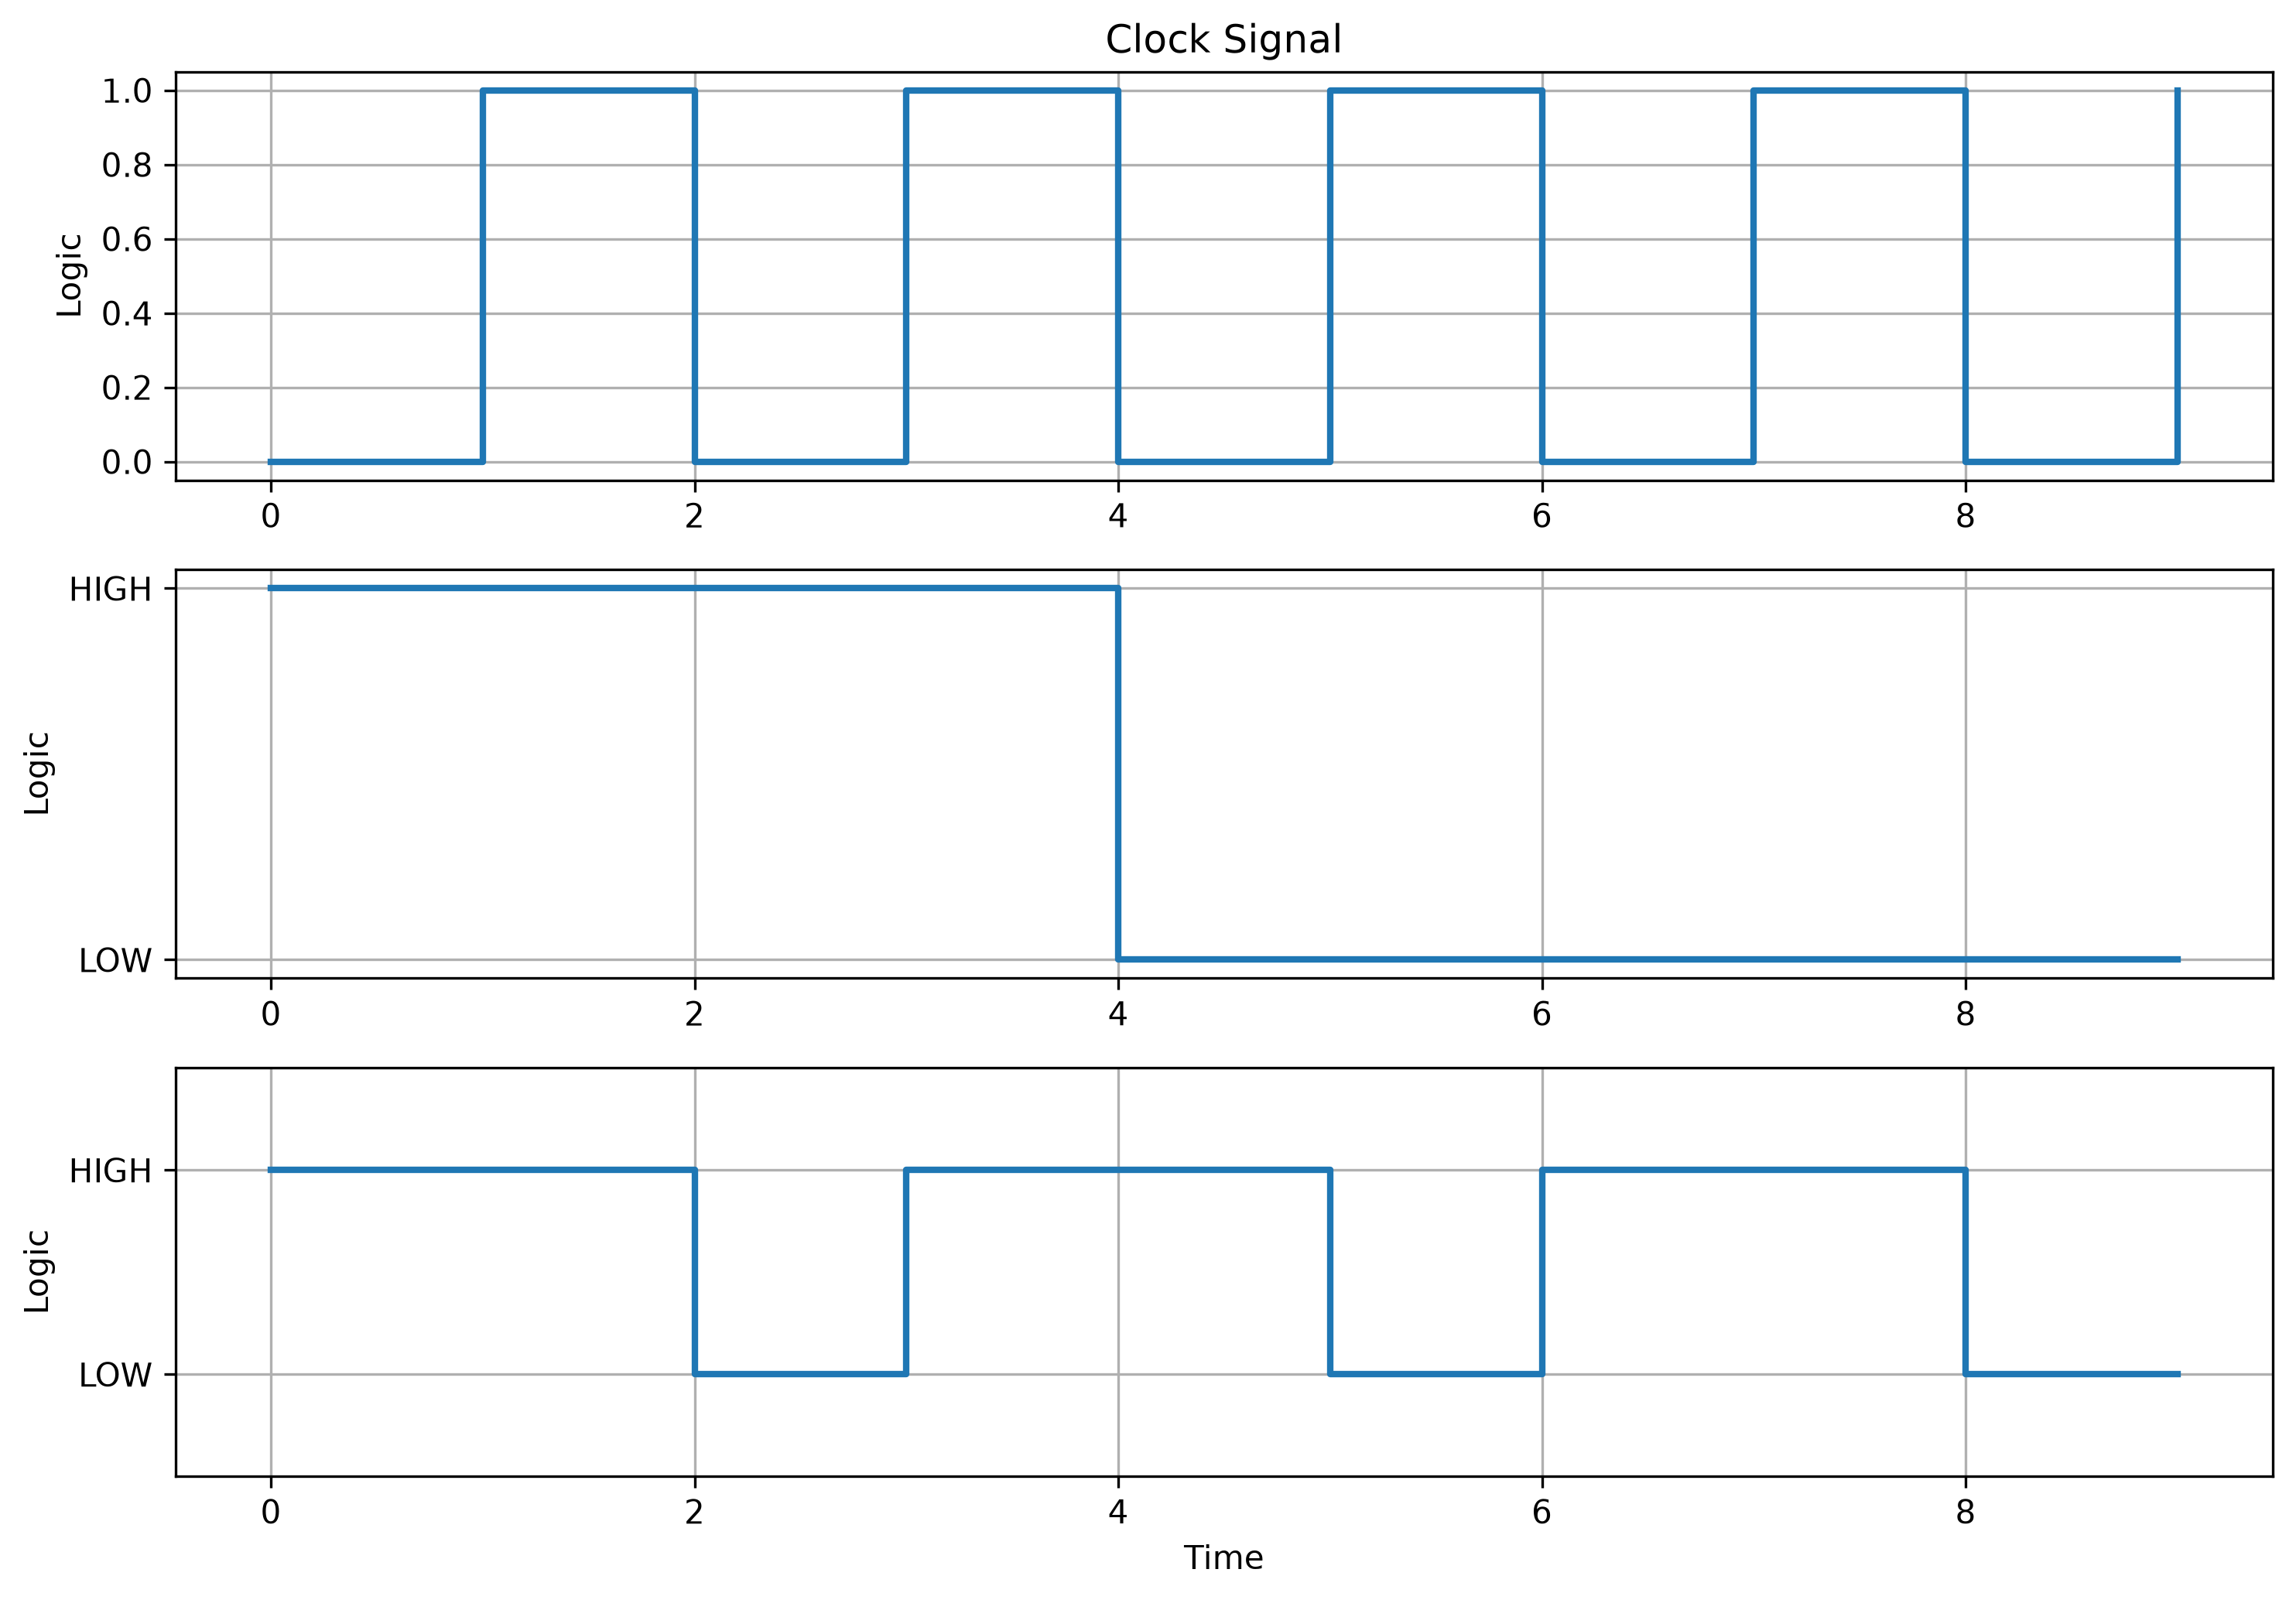
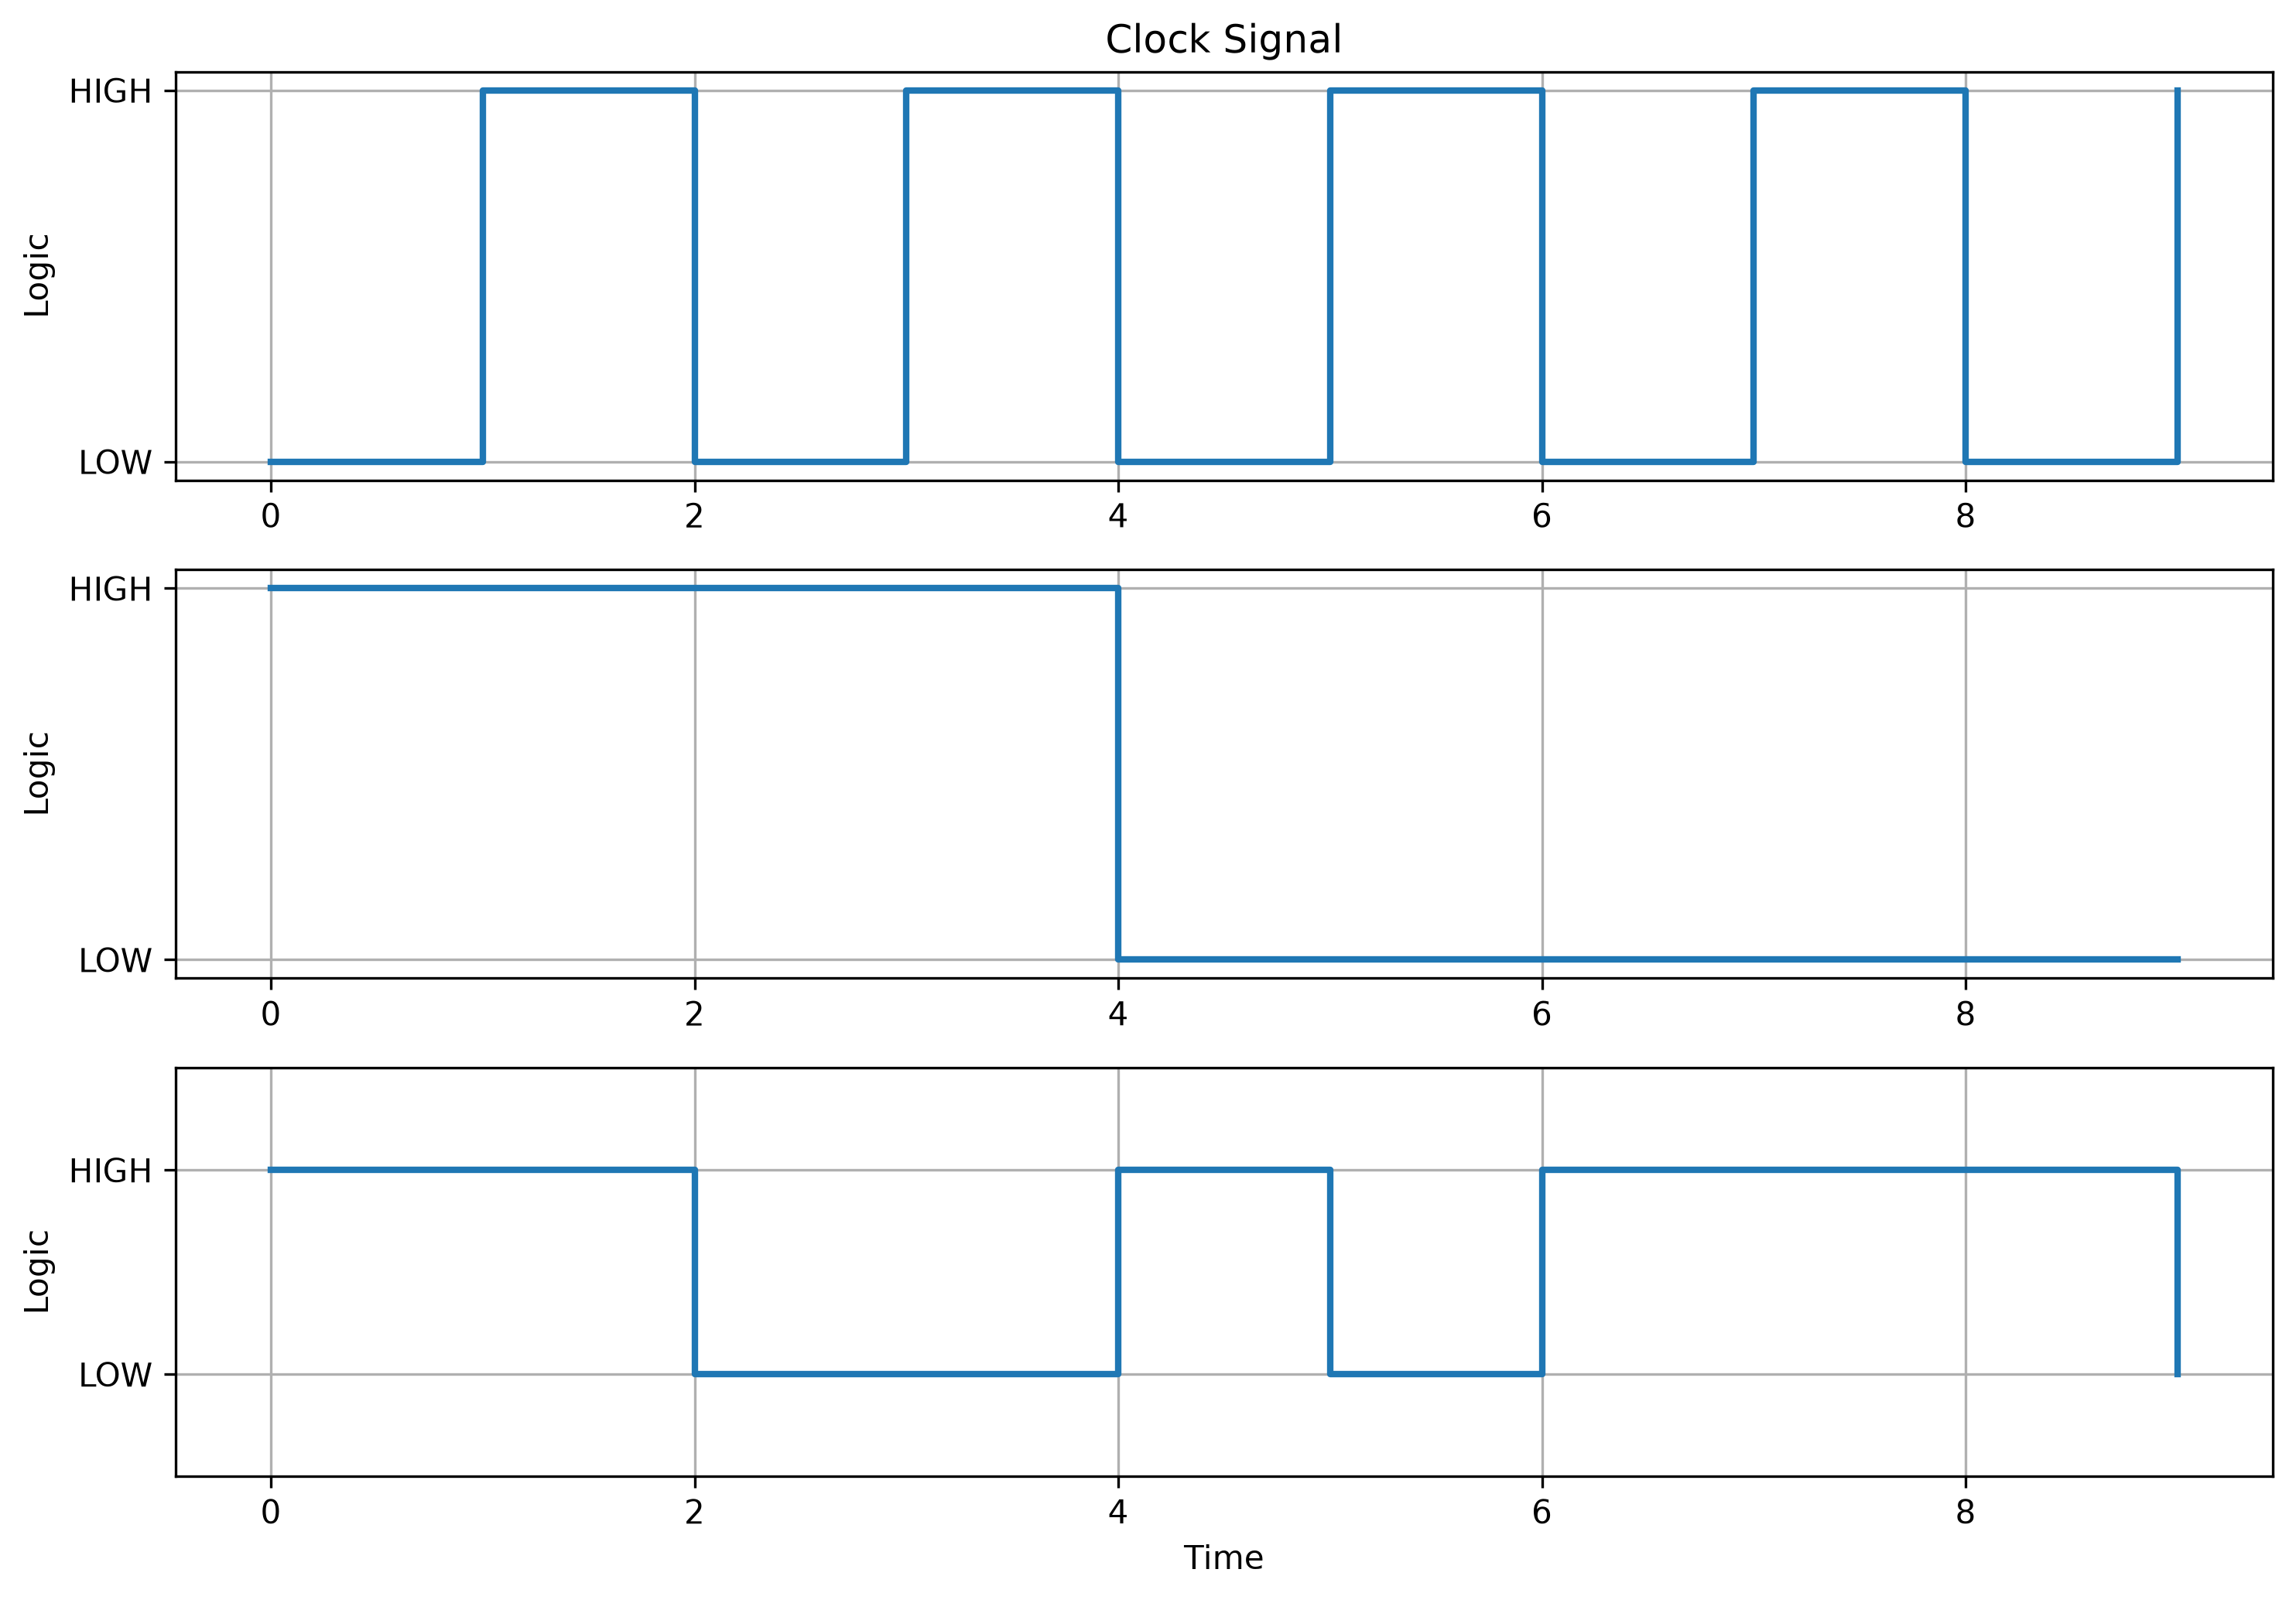
Update README documentation

diff --git a/README.md b/README.md
@@ -1,16 +1,17 @@
 # DIGITAL SIGNAL ANALYZER
-A VLSI-oriented "Digital Signal Analyzer" project built using Python, Numpy, Pandas and Matplotlib. 
+A VLSI-oriented "Digital Signal Analyzer" project built using Python, NumPy, Pandas and Matplotlib. 
+
 The Digital Signal Analyzer generates digital signals, analyzes their properties and then plots the clock, reset, and data waveforms in the form of graphs.
 
 ## Features
 - Generates clock signal
 - Generates reset signal
-- Generate data signal
-- Analyze LOW and HIGH counts
+- Generates data signal
+- Analyze HIGH and LOW counts
 - Calculate duty cycle
 - Detect rising and falling edges 
 - Plots digital waveforms
-- Export siignal data to CSV
+- Export signal data to CSV
 - Export signal statistics to CSV
 - Save waveform as PNG image
 
@@ -21,23 +22,26 @@ The Digital Signal Analyzer generates digital signals, analyzes their properties
 - Matplotlib
 
 ## Project Structure
-Digital SigNAL Analyzer/
-|
-|--- main.py
-|---signal_generator.py
-|---analyzer.py
-|---plotter.py
-|
-|---data/
-|    |---signal.csv
-|    |---statistics.csv
-|
-|---images/
-|    |---waveform.png
-|
-|---README.md
-|---requirements.txt
-|---.gitignore
+
+```text
+Digital_Signal_Analyzer/
+│
+├── main.py
+├── signal_generator.py
+├── analyzer.py
+├── plotter.py
+│
+├── data/
+│   ├── signal.csv
+│   └── statistics.csv
+│
+├── images/
+│   └── waveform.png
+│
+├── README.md
+├── requirements.txt
+└── .gitignore
+```
 
 ## How it works
 
@@ -64,6 +68,7 @@ Digital SigNAL Analyzer/
 
 ### Signal Statistics
 
+```text
 +--------+------+-----+------------+--------------+---------------+
 | Signal | HIGH | LOW | Duty Cycle | Rising Edges | Falling Edges |
 +--------+------+-----+------------+--------------+---------------+
@@ -71,12 +76,77 @@ Digital SigNAL Analyzer/
 | Reset  |  4   |  6  |    40%     |      0       |       1       |
 |  Data  |  6   |  4  |    60%     |      3       |       2       |
 +--------+------+-----+------------+--------------+---------------+
+```
 
 ## Project Screenshots 
 
 ### Waveform 
 
-~~~~~~
+<img src="images/waveform.png" width="700">
 
-images/waveform.png
+### Statistics CSV
 
+<img src="images/statistics_csv.jpg" width="700">
+
+### Signal CSV
+
+<img src="images/signal_csv.jpg" width="500">
+
+### Terminal Output
+
+<img src="images/terminal_output.jpg" width="700">
+
+## Installation
+
+1. Clone or download the project.
+
+2. Open the project  folder in VS Code
+
+3. Install the required libraries:
+
+```bash
+pip install -r requirements.txt
+```
+
+4. Run the project:
+
+```bash
+python main.py
+```
+
+## Generated Files
+
+Running `python main.py` automatically creates the following files:
+
+``` 
+data/
+|---signal.csv
+|---statistics.csv
+
+images/
+|---waveform.png
+```
+
+## Skills Demonstrated
+- Python Programming
+- Numpy Array Operations
+- Pandas Data Processing
+- Matplotlib Visualization
+- CSV File Handling
+- Digital Signal Generation
+- Digital Signal Analysis
+- Modular Programming
+
+## Author
+
+**Basit Ali**
+
+Electronics and Communication Engineering Student
+
+Interested in:
+- VLSI Design
+- Digital Design
+- Embedded Systems
+- Python for Hardware Applications
+
+Github: [Basit Ali](https://github.com/basit-ali-22)